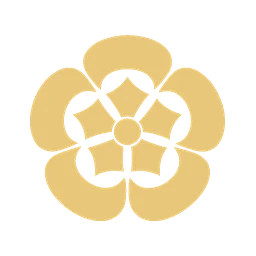
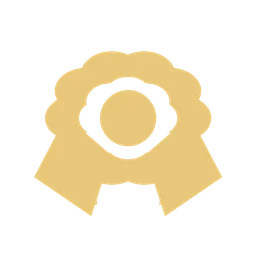
家紋の描き直しを入れた（札3枚・家紋5点）
悠さんが描き直した絵を組み込んだ。
- 札：011 大友ソウプードル（抱き杏葉）／041 井伊ナオワン・072 井伊ナオマサ犬（赤地に金の井桁・兜の六文銭を外した）。
  .png を置いてもらったので、古い .jpg は app/_to_delete/card_old へ移した（.png と .jpg が並ぶと webp が取り合いになる）
- 家紋：三好家（三階菱に五つ釘抜）・安東家（檜扇に違い鷲羽）・朝倉家（三つ盛木瓜）・
  津軽家（津軽牡丹）・長宗我部家（丸に七つ片喰）

検め：gacha 48、NG 0
CACHE wanko-v56 → v57

Claude-Session: https://claude.ai/code/session_011eezGUNpaoUF17sV1qbREy

Changed region(s): [[0.0938, 0.125, 0.9062, 0.875]]

diff --git a/sw.js b/sw.js
@@ -10,7 +10,7 @@
    ・どちらも駄目なときだけ「つながりませぬ」の紙を出す。
 
    直したら CACHE の数を上げること。上げないと古い覚えが残る。 */
-const CACHE = 'wanko-v56';
+const CACHE = 'wanko-v57';
 const SHELL = ['./', './index.html', './manifest.webmanifest'];
 
 self.addEventListener('install', (e) => {
